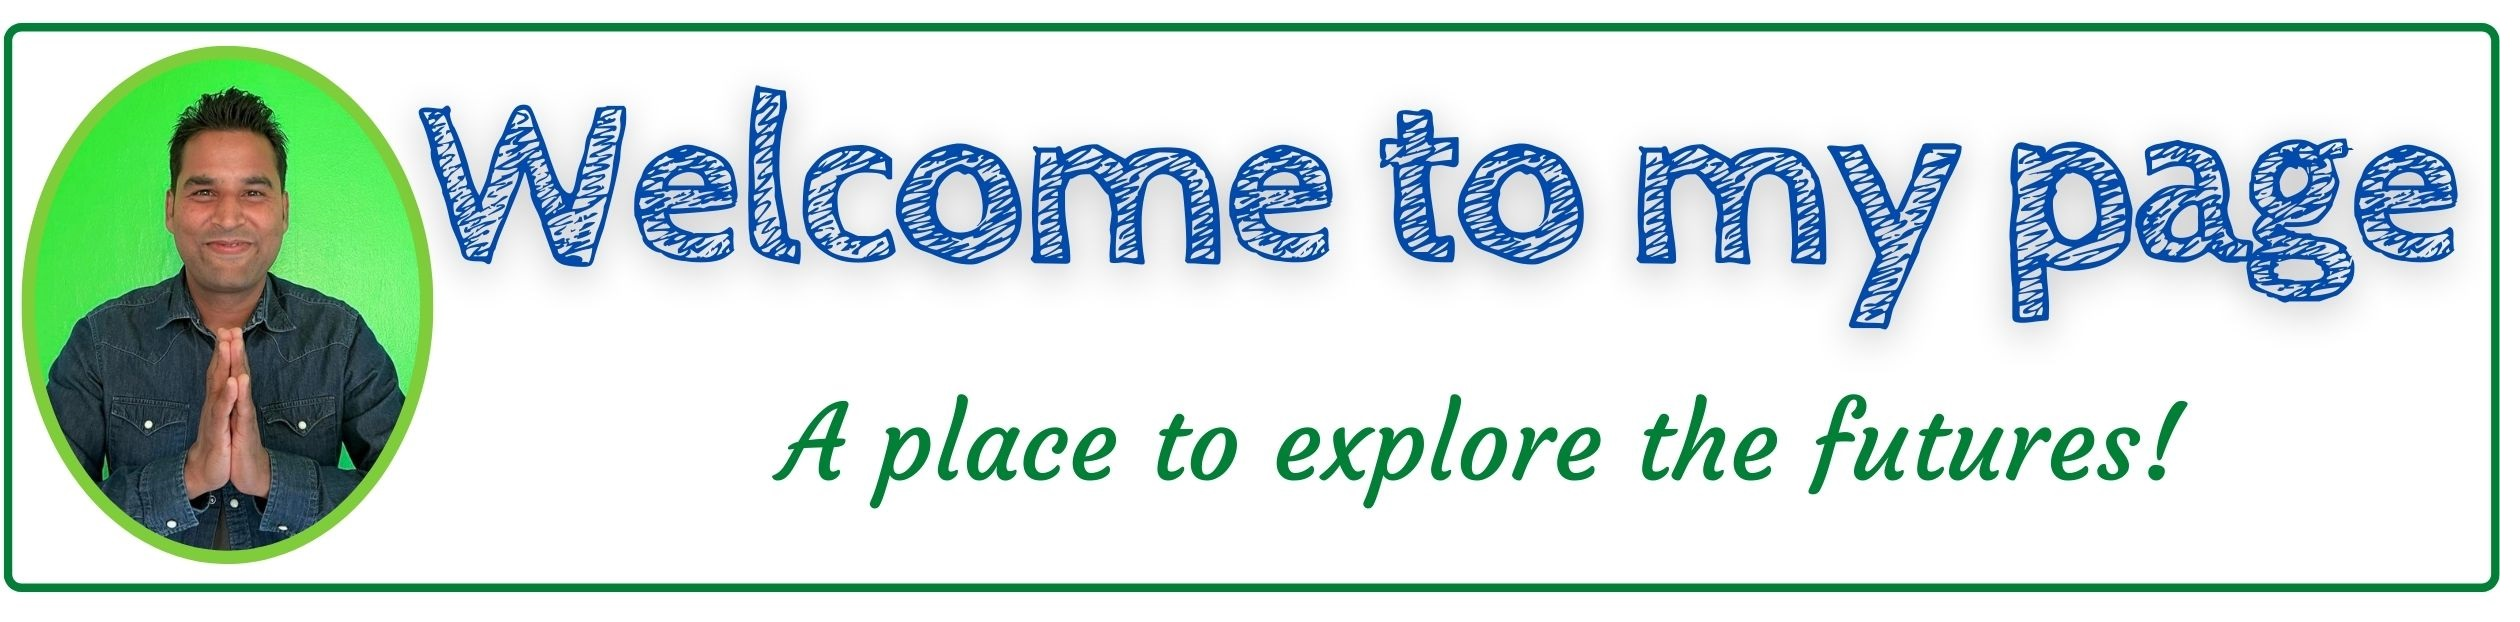
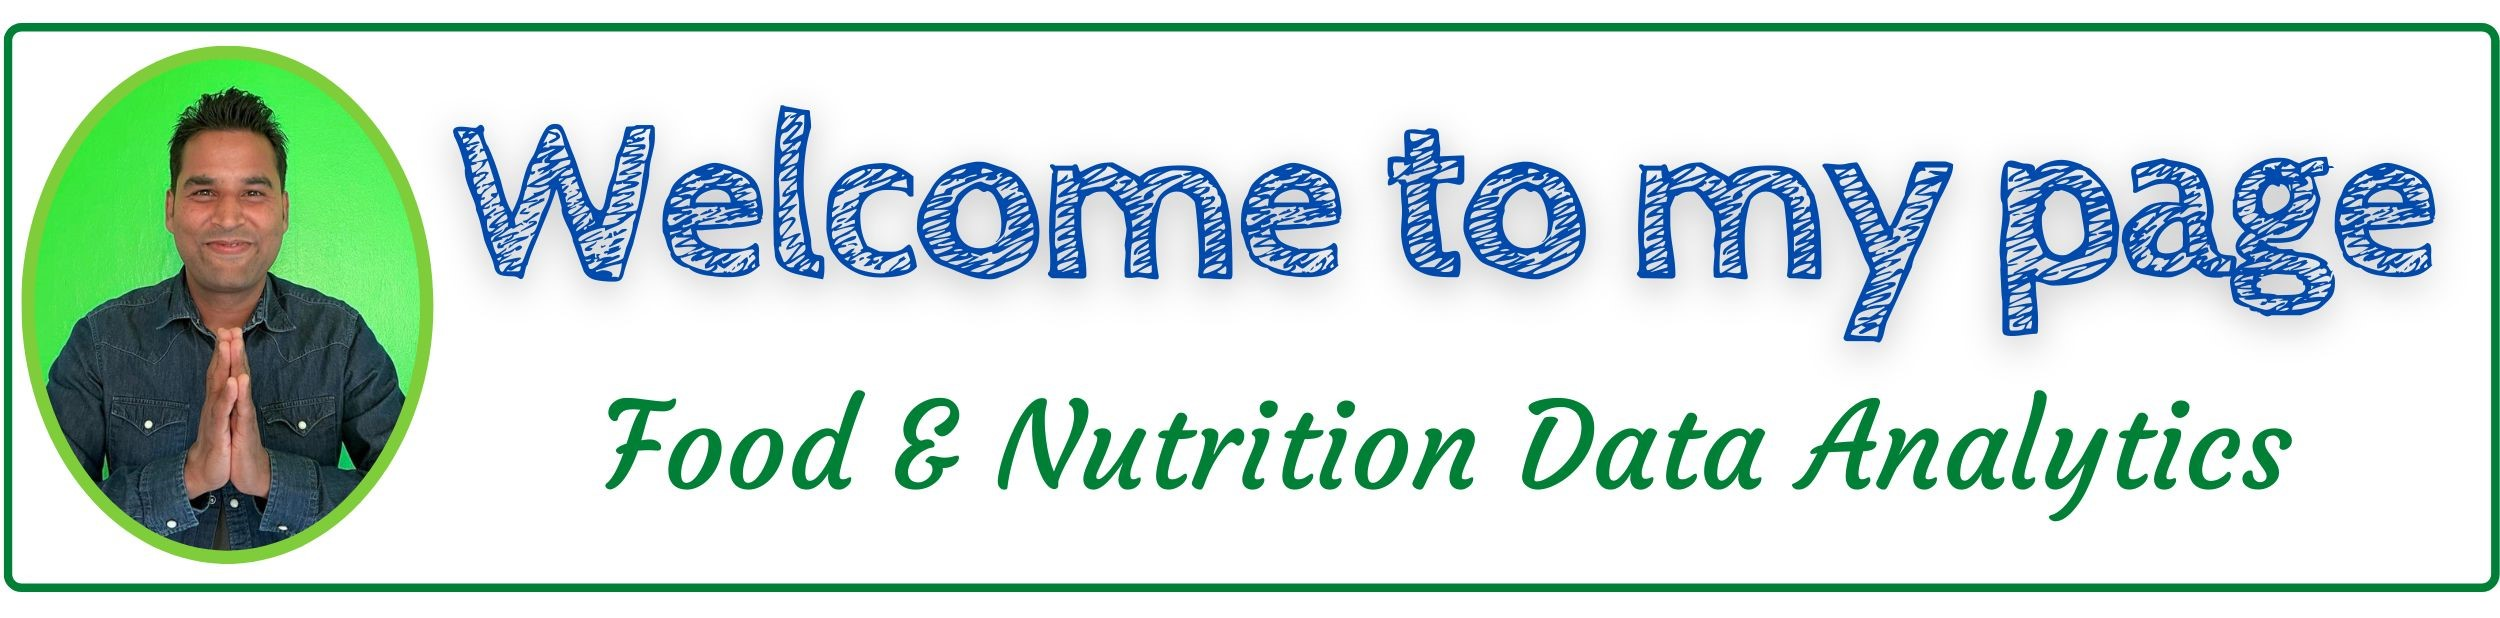
homepage is adjusted with portfolio

Changed region(s): [[0.0, 0.0307, 1.0, 0.9838], [0.2184, 0.6149, 0.936, 0.8608]]

diff --git a/job/templates/job/home.html b/job/templates/job/home.html
@@ -1,34 +1,33 @@
-{% extends "job/base.html" %}
+{% extends "job/alljobs.html" %}
 {% load static %}
 
 <!--- Start of SECTION -->
 {% block section %}
-  <div class="row py-lg-5">
-    <div class="col-lg-6 col-md-8 mx-auto">
-      
-      <!--<h1 class="fw-light">Welcome to my Homepage!</h1>-->
-      <img class="bd-placeholder-img card-img-top" class= "img-fluid" src= "{% static 'my-homepage.jpg'%}"/>
-      <hr>
-      <h1> My personal page on Analytics! </h1> <br>
-      <p> 
-        <h3> Feel free to navigate yourself for; </h3>
-          <h4><ul>
-            <a href="{% url 'allblogs' %}"> <i>- Blog on Food, Nutrition & Sustainability Analytics</i> </a> <br> <br> 
-            <a href="{% url 'alljobs' %}"> <i>- Project portfolios</i> </a> <br><br> 
-            <a href="{% url 'allanalytics' %}"> <i>- Tweeter data Analytics</i> </a> <br><br> 
-            <a href="{% url 'allfooddatas' %}"> <i>- Analytics on Google-search data</i> </a> <br><br>
-            <a href="{% url 'item_todisplay' %}"> <i>- Dashboard- To explore food nutrition & Climate data!</i> </a>
-          </ul></h4>
-        
-      </p> <hr>      
-    </div>
+  <div class="row py-lg-6">
+      <div class="col-lg-6 col-md-8 mx-auto">
+        <h1 class="fw-light">Welcome to my Homepage!</h1>
+        <img class="bd-placeholder-img card-img-top" class= "img-fluid" src= "{% static 'my-homepage.jpg'%}"/>
+        <!--<hr>
+        <h1> My personal page on Analytics! </h1> <br>
+        <p> 
+          <h3> Feel free to navigate yourself for </h3>
+            <h4><ul>
+              <a href="{% url 'allblogs' %}"> <i>- Blog on Food, Nutrition & Sustainability Analytics</i> </a> <br> <br> 
+              <a href="{% url 'alljobs' %}"> <i>- Project portfolios</i> </a> <br><br> 
+              <a href="{% url 'allanalytics' %}"> <i>- Tweeter data Analytics</i> </a> <br><br> 
+              <a href="{% url 'allfooddatas' %}"> <i>- Analytics on Google-search data</i> </a> <br><br>
+              <a href="{% url 'item_todisplay' %}"> <i>- Dashboard- To explore food nutrition & Climate data!</i> </a>
+            </ul></h4>
+        </p> <hr>--><hr>      
+      </div> 
+    <h1> Feel free to navigate yourself for </h1> <hr> 
   </div>
 {% endblock section %}
 
 <!--- START of info selection -->
-{% block info_select %}
-
-{% endblock info_select %}
+{% block to_home_is %}
+      
+{% endblock to_home_is %}
 
 <!--- start of info display -->
 {% block info_display %}

diff --git a/job/templates/job/base-extended.html b/job/templates/job/base-extended.html
@@ -3,25 +3,26 @@
 
 <!--- Start of SECTION -->
 {% block section %}
-    <div class="row py-lg-5">
+    <div > <!--class="row py-lg-5"-->  
       <div class="col-lg-6 col-md-8 mx-auto">
         <!--<h1 class="fw-light">My Projects portfolio!</h1>-->      
         <img class="bd-placeholder-img card-img-top" class= "img-fluid" src= "{% static 'my-portfolio.jpg' %}"/><hr> 
-        <p><h1 class="fw-light">Some of my latest projects</h1> </p><hr> 
       </div>
+      <p><h1 class="fw-light"> <strong>BUTTON</strong> to views some of my latest project portfolios </h1> </p><hr> 
     </div>
 {% endblock section %}
 
 
 <!--- START of info selection -->
+{% block to_home_is %}
 {% block info_select %}
-    <h5><strong>BUTTON</strong> to views different project portfolios </h5>
+    <h5>   </h5>
       <div class="tab" >
-        <button class="tablinks" onclick="openUserinpt(event, 'tweet_streem')">Tweets streeming Analytics</button>
-        <button class="tablinks" onclick="openUserinpt(event, 'food_co2')">Food CO2 footprint Analytics</button>
-        <button class="tablinks" onclick="openUserinpt(event, 'google_trend')">Google trends analytics</button>
+        <button class="tablinks" onclick="openUserinpt(event, 'tweet_streem')"> Twitters data Analytics</button>
+        <button class="tablinks" onclick="openUserinpt(event, 'food_co2')">CO2 footprint Analytics</button>
+        <button class="tablinks" onclick="openUserinpt(event, 'google_trend')">Google trends Analytics</button>
         <button class="tablinks" onclick="openUserinpt(event, 'health_promotion')">Healthy food promotion</button>
-        <button class="tablinks Disabled" onclick="openUserinpt(event, 'food_ontology')" id="defaultOpen">Food ontology</button>
+        <button class="tablinks Disabled" onclick="openUserinpt(event, 'food_ontology')" id="defaultOpen">Food & Flavour pairing </button>
       </div><hr>
 
       <div class="container" style="background-color:#a9d1ca"> 
@@ -57,7 +58,9 @@
           </div>
         </div>
       </div>
+  
 {% endblock info_select %}
+{% endblock to_home_is %}
 
 
 {% block info_display %}

diff --git a/job/templates/job/alljobs.html b/job/templates/job/alljobs.html
@@ -1,5 +1,7 @@
 {% extends "job/base-extended.html" %}
+
 {% load static %}
+
 
 <!--- START of Tweet streem info-display-->
 {% block info_display_baseextended_tweetstreem %}

diff --git a/job/views.py b/job/views.py
@@ -7,7 +7,13 @@ from blog.models import Blog
 def  home(request):
     jobs= Job.objects
     blogs= Blog.objects
-    return render(request, 'job/home.html', {'jobs': jobs, 'blogs': blogs})
+    googles= Google.objects
+    tweets=Tweet.objects
+    climates=Climate.objects
+    healths=Health.objects
+    ontologys=Ontology.objects
+
+    return render(request, 'job/home.html', {'jobs': jobs, 'blogs': blogs, 'googles':googles, 'tweets':tweets, 'climates':climates, 'healths':healths, 'ontologys':ontologys})
 
 def  alljobs(request):
     jobs= Job.objects
